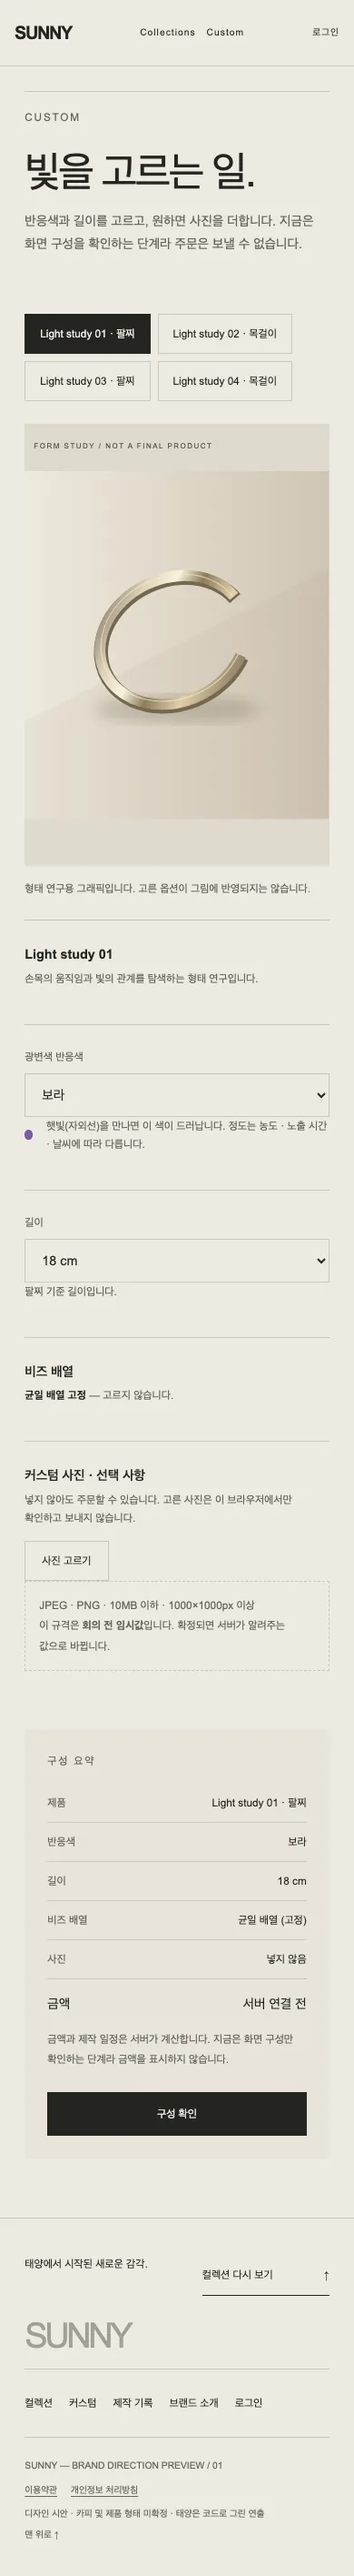
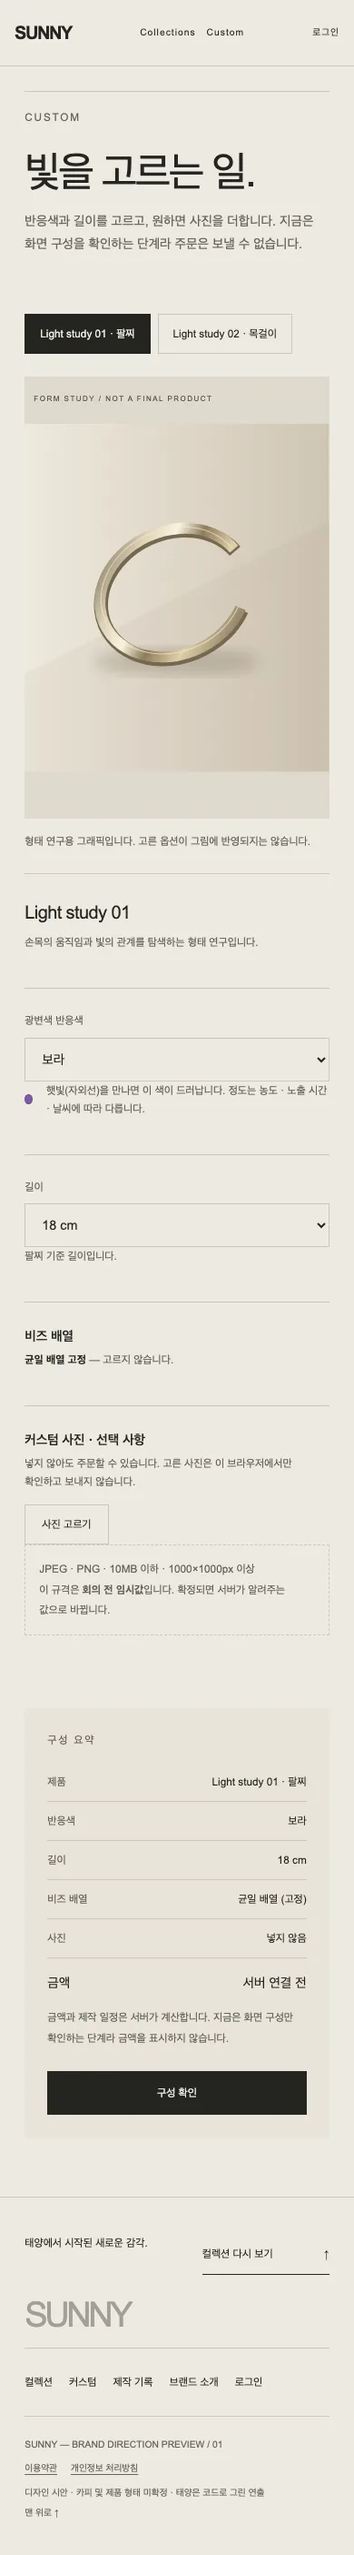
fix(front): 커스텀 제품 2개 · 두 칸 배치 실제 반영 (#54)
앞 커밋(09acb36)에는 캡처만 들어갔다. 코드 변경이 커밋되지 않은 채
다른 브랜치에서 파일을 되돌려 덮어써서 생긴 실수다. 다시 적용한다.

- lib/mock/products.json: Light study 03·04 제거 (팔찌·목걸이 하나씩)
- CollectionsSection: 앞 둘만 보여주던 slice(0,2) 제거
- custom.module.css: 세 칸 → 두 칸, sticky 전부 제거, 860px 이하 한 줄
- CustomBuilder: 제품 이름·설명을 그림 아래로, 요약을 오른쪽 칸 끝으로
- 확인: 제품 버튼 2개 · 칼럼 2개 · 따라다니는 요소 0개 · 화면 141건 통과

diff --git a/frontend/components/custom/CustomBuilder.tsx b/frontend/components/custom/CustomBuilder.tsx
@@ -8,7 +8,12 @@ import {
   type PhotochromicColor,
   type Product,
 } from "../../lib/types.ts";
-import { PHOTO_RULES, checkPhotoFile, checkPhotoSize, describeRules } from "../../lib/photo.ts";
+import {
+  PHOTO_RULES,
+  checkPhotoFile,
+  checkPhotoSize,
+  describeRules,
+} from "../../lib/photo.ts";
 import { ProductArt } from "../main/ProductArt.tsx";
 import styles from "./custom.module.css";
 
@@ -32,10 +37,14 @@ export function CustomBuilder({
   /** 메인 카드에서 넘어오면 그 제품이 골라진 채로 시작한다 */
   initialSlug?: string;
 }) {
-  const [productSlug, setProductSlug] = useState(initialSlug ?? products[0]?.slug ?? "");
+  const [productSlug, setProductSlug] = useState(
+    initialSlug ?? products[0]?.slug ?? "",
+  );
   const [color, setColor] = useState<PhotochromicColor>("violet");
   const [length, setLength] = useState(() => {
-    const first = products.find((item) => item.slug === (initialSlug ?? products[0]?.slug));
+    const first = products.find(
+      (item) => item.slug === (initialSlug ?? products[0]?.slug),
+    );
     const options = first ? LENGTH_OPTIONS[first.kind] : [];
     return options[1] ?? options[0] ?? "";
   });
@@ -46,7 +55,7 @@ export function CustomBuilder({
 
   const product = useMemo(
     () => products.find((item) => item.slug === productSlug) ?? products[0],
-    [products, productSlug]
+    [products, productSlug],
   );
   const lengths = product ? LENGTH_OPTIONS[product.kind] : [];
 
@@ -59,7 +68,7 @@ export function CustomBuilder({
     () => () => {
       if (photoUrl) URL.revokeObjectURL(photoUrl);
     },
-    [photoUrl]
+    [photoUrl],
   );
 
   async function onPickPhoto(event: React.ChangeEvent<HTMLInputElement>) {
@@ -77,12 +86,15 @@ export function CustomBuilder({
     // 실제로 이미지로 열어 본다 — 확장자만 바꾼 파일은 여기서 걸린다
     const url = URL.createObjectURL(file);
     try {
-      const size = await new Promise<{ width: number; height: number }>((resolve, reject) => {
-        const image = new Image();
-        image.onload = () => resolve({ width: image.naturalWidth, height: image.naturalHeight });
-        image.onerror = () => reject(new Error("이미지로 열 수 없습니다."));
-        image.src = url;
-      });
+      const size = await new Promise<{ width: number; height: number }>(
+        (resolve, reject) => {
+          const image = new Image();
+          image.onload = () =>
+            resolve({ width: image.naturalWidth, height: image.naturalHeight });
+          image.onerror = () => reject(new Error("이미지로 열 수 없습니다."));
+          image.src = url;
+        },
+      );
       const sizeError = checkPhotoSize(size.width, size.height);
       if (sizeError) {
         URL.revokeObjectURL(url);
@@ -127,14 +139,13 @@ export function CustomBuilder({
           <p className={styles.artNote}>
             형태 연구용 그래픽입니다. 고른 옵션이 그림에 반영되지는 않습니다.
           </p>
+          <div className={styles.productName}>
+            <h2>{product?.name ?? "제품"}</h2>
+            <p>{product?.summary}</p>
+          </div>
         </div>
 
         <div>
-          <section className={styles.group}>
-            <h2>{product?.name ?? "제품"}</h2>
-            <p>{product?.summary}</p>
-          </section>
-
           <section className={styles.group}>
             <label className={styles.label} htmlFor="custom-color">
               광변색 반응색
@@ -143,7 +154,9 @@ export function CustomBuilder({
               id="custom-color"
               className={styles.select}
               value={color}
-              onChange={(event) => setColor(event.target.value as PhotochromicColor)}
+              onChange={(event) =>
+                setColor(event.target.value as PhotochromicColor)
+              }
             >
               {PHOTOCHROMIC_COLORS.map((value) => (
                 <option key={value} value={value}>
@@ -152,8 +165,13 @@ export function CustomBuilder({
               ))}
             </select>
             <p className={styles.colorRow}>
-              <span className={styles.swatch} style={{ background: SWATCH[color] }} aria-hidden="true" />
-              햇빛(자외선)을 만나면 이 색이 드러납니다. 정도는 농도 · 노출 시간 · 날씨에 따라 다릅니다.
+              <span
+                className={styles.swatch}
+                style={{ background: SWATCH[color] }}
+                aria-hidden="true"
+              />
+              햇빛(자외선)을 만나면 이 색이 드러납니다. 정도는 농도 · 노출 시간
+              · 날씨에 따라 다릅니다.
             </p>
           </section>
 
@@ -173,7 +191,9 @@ export function CustomBuilder({
                 </option>
               ))}
             </select>
-            <p>{product ? `${KIND_LABEL[product.kind]} 기준 길이입니다.` : null}</p>
+            <p>
+              {product ? `${KIND_LABEL[product.kind]} 기준 길이입니다.` : null}
+            </p>
           </section>
 
           <section className={styles.group}>
@@ -185,20 +205,35 @@ export function CustomBuilder({
 
           <section className={styles.group}>
             <h2>커스텀 사진 · 선택 사항</h2>
-            <p>넣지 않아도 주문할 수 있습니다. 고른 사진은 이 브라우저에서만 확인하고 보내지 않습니다.</p>
+            <p>
+              넣지 않아도 주문할 수 있습니다. 고른 사진은 이 브라우저에서만
+              확인하고 보내지 않습니다.
+            </p>
 
             <label className={styles.file}>
               사진 고르기
-              <input type="file" accept={PHOTO_RULES.accept.join(",")} onChange={onPickPhoto} />
+              <input
+                type="file"
+                accept={PHOTO_RULES.accept.join(",")}
+                onChange={onPickPhoto}
+              />
             </label>
 
             {photoUrl ? (
               <div className={styles.photoRow}>
                 {/* 브라우저 안의 미리보기라 next/image 를 쓰지 않는다 */}
                 {/* eslint-disable-next-line @next/next/no-img-element */}
-                <img className={styles.preview} src={photoUrl} alt="고른 사진 미리보기" />
+                <img
+                  className={styles.preview}
+                  src={photoUrl}
+                  alt="고른 사진 미리보기"
+                />
                 <span className={styles.fixed}>{photoName}</span>
-                <button type="button" className={styles.choice} onClick={clearPhoto}>
+                <button
+                  type="button"
+                  className={styles.choice}
+                  onClick={clearPhoto}
+                >
                   지우기
                 </button>
               </div>
@@ -214,53 +249,62 @@ export function CustomBuilder({
               {describeRules()}
               {PHOTO_RULES.provisional ? (
                 <>
-                  <br />이 규격은 <b>회의 전 임시값</b>입니다. 확정되면 서버가 알려주는 값으로
-                  바뀝니다.
+                  <br />이 규격은 <b>회의 전 임시값</b>입니다. 확정되면 서버가
+                  알려주는 값으로 바뀝니다.
                 </>
               ) : null}
             </p>
           </section>
-        </div>
 
-        <aside className={styles.summary} aria-label="구성 요약">
-          <h2>구성 요약</h2>
-          <div className={styles.row}>
-            <span>제품</span>
-            <span>{product ? `${product.name} · ${KIND_LABEL[product.kind]}` : "-"}</span>
-          </div>
-          <div className={styles.row}>
-            <span>반응색</span>
-            <span>{COLOR_LABEL[color]}</span>
-          </div>
-          <div className={styles.row}>
-            <span>길이</span>
-            <span>{length || "-"}</span>
-          </div>
-          <div className={styles.row}>
-            <span>비즈 배열</span>
-            <span>균일 배열 (고정)</span>
-          </div>
-          <div className={styles.row}>
-            <span>사진</span>
-            <span>{photoName ?? "넣지 않음"}</span>
-          </div>
-          <div className={styles.price}>
-            <span>금액</span>
-            <span>서버 연결 전</span>
-          </div>
-          <p className={styles.note}>
-            금액과 제작 일정은 서버가 계산합니다. 지금은 화면 구성만 확인하는 단계라 금액을 표시하지
-            않습니다.
-          </p>
-          <button type="button" className={styles.cta} onClick={() => setChecked(true)}>
-            구성 확인
-          </button>
-          {checked ? (
-            <p className={styles.note} role="status">
-              구성을 확인했습니다. 주문 요청은 서버가 연결된 뒤에 보낼 수 있습니다.
+          <aside className={styles.summary} aria-label="구성 요약">
+            <h2>구성 요약</h2>
+            <div className={styles.row}>
+              <span>제품</span>
+              <span>
+                {product
+                  ? `${product.name} · ${KIND_LABEL[product.kind]}`
+                  : "-"}
+              </span>
+            </div>
+            <div className={styles.row}>
+              <span>반응색</span>
+              <span>{COLOR_LABEL[color]}</span>
+            </div>
+            <div className={styles.row}>
+              <span>길이</span>
+              <span>{length || "-"}</span>
+            </div>
+            <div className={styles.row}>
+              <span>비즈 배열</span>
+              <span>균일 배열 (고정)</span>
+            </div>
+            <div className={styles.row}>
+              <span>사진</span>
+              <span>{photoName ?? "넣지 않음"}</span>
+            </div>
+            <div className={styles.price}>
+              <span>금액</span>
+              <span>서버 연결 전</span>
+            </div>
+            <p className={styles.note}>
+              금액과 제작 일정은 서버가 계산합니다. 지금은 화면 구성만 확인하는
+              단계라 금액을 표시하지 않습니다.
             </p>
-          ) : null}
-        </aside>
+            <button
+              type="button"
+              className={styles.cta}
+              onClick={() => setChecked(true)}
+            >
+              구성 확인
+            </button>
+            {checked ? (
+              <p className={styles.note} role="status">
+                구성을 확인했습니다. 주문 요청은 서버가 연결된 뒤에 보낼 수
+                있습니다.
+              </p>
+            ) : null}
+          </aside>
+        </div>
       </div>
     </>
   );

diff --git a/frontend/components/custom/custom.module.css b/frontend/components/custom/custom.module.css
@@ -29,21 +29,39 @@
 
 .layout {
   display: grid;
-  grid-template-columns: 1.1fr 1fr 330px;
-  gap: clamp(24px, 3.5vw, 60px);
+  grid-template-columns: 1.05fr 1fr;
+  gap: clamp(32px, 5vw, 80px);
   align-items: start;
 }
 
-/* 왼쪽 — 고른 제품의 그림 */
+/* 왼쪽 — 그림과 제품 설명. 따라 내려오지 않고 제자리에 둔다 */
 .art {
-  position: sticky;
-  top: 96px;
+  position: static;
 }
 
 .artNote {
   font-size: var(--text-caption);
   color: var(--muted);
-  margin: var(--step-2) 0 0;
+  margin: var(--step-2) 0 var(--step-3);
+}
+
+.productName {
+  border-top: 1px solid var(--line);
+  padding-top: var(--step-3);
+}
+
+.productName h2 {
+  font-size: clamp(20px, 1.1rem + 0.5vw, 26px);
+  font-weight: 400;
+  letter-spacing: -0.03em;
+  margin: 0 0 6px;
+}
+
+.productName p {
+  font-size: var(--text-caption);
+  color: var(--muted);
+  margin: 0;
+  max-width: var(--measure-narrow);
 }
 
 /* 드롭다운 */
@@ -192,11 +210,11 @@
   line-height: 1.9;
 }
 
+/* 요약 — 옵션을 다 고른 뒤 바로 아래에서 확인한다 */
 .summary {
   background: var(--panel, #e9e4da);
   padding: var(--step-3);
-  position: sticky;
-  top: 96px;
+  margin-top: var(--step-4);
 }
 
 .summary h2 {
@@ -248,27 +266,12 @@
   opacity: 0.5;
 }
 
-@media (max-width: 1100px) {
-  .layout {
-    grid-template-columns: 1fr 1fr;
-  }
-  .summary {
-    grid-column: 1 / -1;
-    position: static;
-  }
-}
-
-@media (max-width: 760px) {
+@media (max-width: 860px) {
   .page {
     padding: 100px var(--page-x) var(--step-5);
   }
   .layout {
     grid-template-columns: 1fr;
-  }
-  .art {
-    position: static;
-  }
-  .summary {
-    position: static;
+    gap: var(--step-4);
   }
 }

diff --git a/frontend/components/main/CollectionsSection.tsx b/frontend/components/main/CollectionsSection.tsx
@@ -31,7 +31,7 @@ export async function CollectionsSection() {
         </p>
       </div>
       <div className={styles.productGrid}>
-        {products.slice(0, 2).map((product: Product) => (
+        {products.map((product: Product) => (
           <article key={product.slug}>
             {/* 카드를 누르면 이 제품이 골라진 커스텀 화면으로 간다 */}
             <Link href={`/custom?product=${product.slug}`}>
